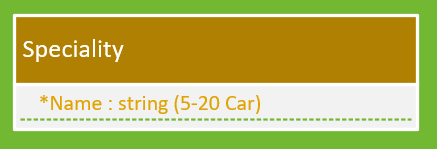
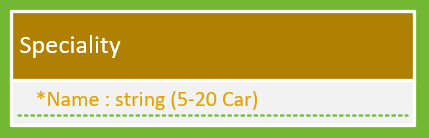
Nettoyages des diagrammes et integration dans le TP1

Changed region(s): [[0.0, 0.058, 0.9697, 0.9275]]

diff --git a/docs/02-tp/01-tp1.md b/docs/02-tp/01-tp1.md
@@ -15,10 +15,6 @@ Un **Trainer** a une seule **Speciality**.
 Chaque client (**Customer**) est assigné à un **Trainer**.
 Le **Trainer** définit également avec son client un objectif courant (**Objective**) : soit de perte de poids ou de distance. Lorsqu’un **Objective** est atteint, on indique la date.
 
-## Diagramme
-
-** TODO: AJOUTER LE DIAGRAMME DE CLASSES! **
-
 ## Les fonctionnalités à implémenter
 
 - Gestion des spécialités (**Speciality**) avec seed🌱
@@ -78,6 +74,8 @@ import IndexSource from '!!raw-loader!./Index.cshtml';
 ## Gestion des spécialités
 1.	Ajout de la classe **Speciality** qui sera gérer par Entity Framework Core dans le répertoire **/Data/**
 
+![Image Reference](/tps/tp1/diagrammeSpeciality.png)
+
 ```csharp title="Speciality"
 public string Name { get; set; }
 ```
@@ -104,6 +102,8 @@ builder.Entity<Speciality>().HasData(new Speciality() { Id = 4, Name = "Réhabil
 
 ## Gestion des entraineurs
 1.	Ajout de la classe **Trainer** qui sera gérer par Entity Framework Core dans le répertoire **/Data/**
+
+![Image Reference](/tps/tp1/diagrammeTrainer.png)
 
 ```csharp title="Trainer"
 public string FirstName { get; set; }
@@ -156,6 +156,8 @@ e) Points bonus pour une sélection de la photo?
 ## Utilisation des vues partielles et de FontAwesome
 1.	Mise en place du modèle de donnée pour les clients (**Customer**) et de leurs objectifs (**Objective**)
 
+![Image Reference](/tps/tp1/diagrammeCustomer.png)
+
 ```csharp title="Customer"
 public string FirstName { get; set; }
 public string LastName { get; set; }
@@ -164,9 +166,11 @@ public DateTime BirthDate { get; set; }
 public double StartWeight { get; set; }
 ```
 
+![Image Reference](/tps/tp1/diagrammeObjective.png)
+
 ```csharp title="Objective"
 public string Name { get; set; }
-public double LostWeight { get; set; }
+public double LostWeightKg { get; set; }
 public double DistanceKm { get; set; }
 public DateTime AchievedDate { get; set; }
 ```
